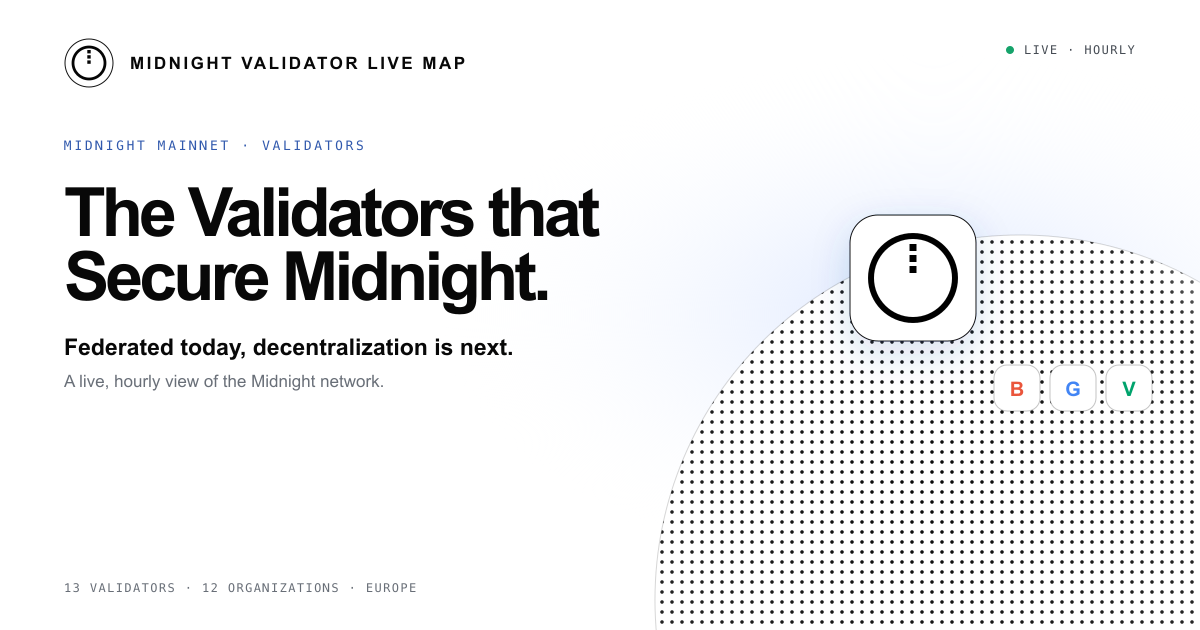
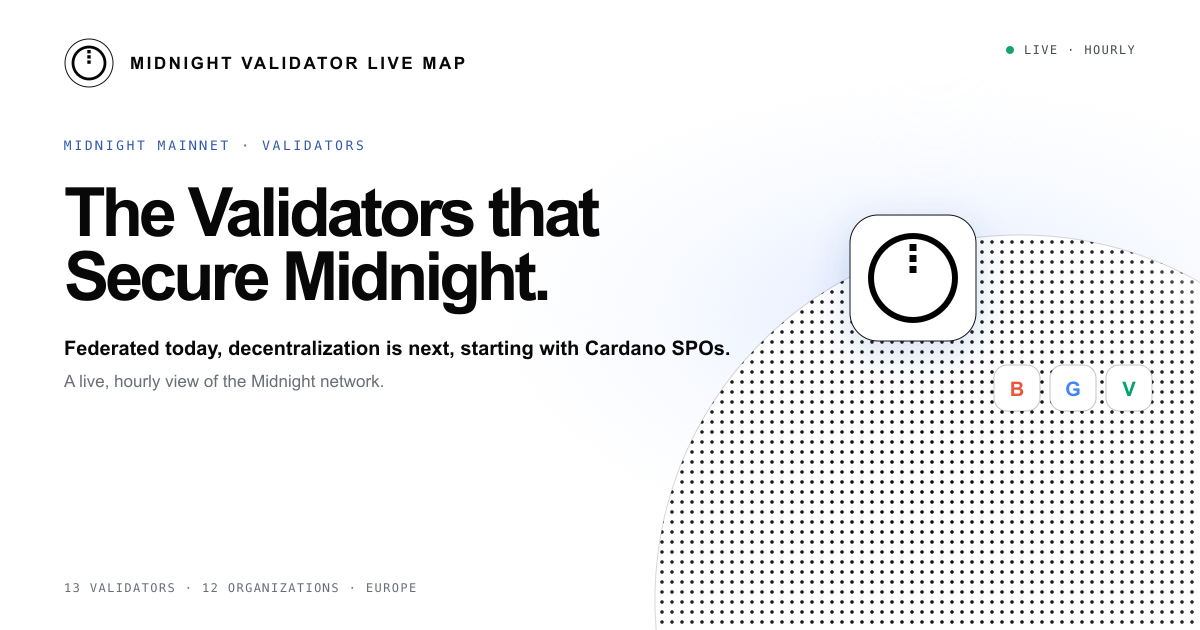
Clarify validator locations and map connections

Changed region(s): [[0.0617, 0.5429, 0.6167, 0.573]]

diff --git a/src/app.js b/src/app.js
@@ -15,7 +15,8 @@ const state = {
   dragStartY: 0,
   dragStartPhi: 0,
   dragStartTheta: 0,
-  pinchDistance: null
+  pinchDistance: null,
+  autoRotate: true
 };
 
 document.querySelector("#app").innerHTML = `
@@ -32,7 +33,7 @@ document.querySelector("#app").innerHTML = `
       <section class="hero">
         <div class="eyebrow">MIDNIGHT MAINNET · LIVE VALIDATORS</div>
         <h1>The Validators that<br><em>Secure Midnight.</em></h1>
-        <p class="hero-subheadline">Federated today, decentralization is next.</p>
+        <p class="hero-subheadline">Federated today, decentralization is next, starting with Cardano SPOs.</p>
         <p class="hero-copy">A live, hourly view of the Midnight network.</p>
       </section>
 
@@ -42,6 +43,7 @@ document.querySelector("#app").innerHTML = `
           <div class="globe-halo"></div>
           <div class="globe-grid" aria-hidden="true"></div>
           <canvas id="globe" aria-label="Interactive globe centered on European validators"></canvas>
+          <svg class="globe-connectors" id="globe-connectors" aria-hidden="true"></svg>
           <div class="globe-labels" id="globe-labels"></div>
           <div class="globe-controls" aria-label="Globe controls">
             <button type="button" data-zoom="in" aria-label="Zoom in">+</button>
@@ -73,6 +75,7 @@ document.querySelector("#app").innerHTML = `
 
 const canvas = document.querySelector("#globe");
 const globeLabels = document.querySelector("#globe-labels");
+const globeConnectors = document.querySelector("#globe-connectors");
 const railLeft = document.querySelector("#rail-left");
 const railRight = document.querySelector("#rail-right");
 const detailsCard = document.querySelector("#details-card");
@@ -80,6 +83,22 @@ const detailsHeading = document.querySelector("#details-heading");
 
 let globe;
 let logoElements = [];
+let connectorElements = [];
+const legendOrder = [
+  "mnf-validator-1",
+  "sfi-validator-google",
+  "bkd-validator-mnf",
+  "twn-validator-etoro",
+  "sfi-validator-moneygram",
+  "sfi-validator-worldpay",
+  "sfi-validator-vodafone",
+  "aton-validator",
+  "bgo-validator",
+  "bkd-validator-bullish",
+  "stl-validator-labrador-monarch",
+  "stl-validator-whippet-humpback",
+  "ktg-validator"
+];
 
 loadSnapshot();
 
@@ -99,9 +118,17 @@ async function loadSnapshot() {
 }
 
 function render() {
-  const validators = state.snapshot.validators;
+  const validators = [...state.snapshot.validators].sort(
+    (a, b) => legendOrder.indexOf(a.name) - legendOrder.indexOf(b.name)
+  );
   const split = Math.ceil(validators.length / 2);
   globeLabels.innerHTML = validators.map(mapLogoButton).join("");
+  globeConnectors.innerHTML = validators.map((node) => `
+    <g data-connector="${escapeHtml(node.name)}">
+      <line></line>
+      <circle r="5"></circle>
+    </g>
+  `).join("");
   railLeft.innerHTML = validators.slice(0, split).map(validatorButton).join("");
   railRight.innerHTML = validators.slice(split).map(validatorButton).join("");
 
@@ -142,8 +169,8 @@ function mapLogoButton(node, index, validators) {
       type="button"
       aria-label="View ${escapeHtml(node.organization)} in ${escapeHtml(node.city)}"
     >
-      <span class="map-logo-image"><img src="./assets/logos/${escapeHtml(node.logo)}" alt=""></span>
-      <span class="map-logo-label"><strong>${escapeHtml(node.organization)}</strong><small>${escapeHtml(node.secondary ?? node.city)}</small></span>
+      <span class="map-logo-image"><img src="./assets/logos/${escapeHtml(visualLogo(node))}" alt=""></span>
+      <span class="map-logo-label"><strong>${escapeHtml(node.organization)}</strong><small>${escapeHtml(locationLabel(node))}</small></span>
     </button>
   `;
 }
@@ -152,11 +179,12 @@ function validatorButton(node) {
   return `
     <button class="validator-card ${node.online ? "" : "offline"}" data-name="${escapeHtml(node.name)}" type="button">
       <span class="logo-wrap" style="--accent:${node.accent}">
-        <img src="./assets/logos/${escapeHtml(node.logo)}" alt="">
+        <img src="./assets/logos/${escapeHtml(visualLogo(node))}" alt="">
       </span>
       <span class="validator-copy">
         <strong>${escapeHtml(node.organization)}</strong>
-        <small>${escapeHtml(node.secondary ?? node.city)}</small>
+        <small>${escapeHtml(locationLabel(node))}</small>
+        <span class="validator-metric">${Number.isFinite(node.propagationMs) ? `${node.propagationMs}ms propagation` : "Propagation unavailable"}</span>
       </span>
       <span class="status-dot ${node.online ? "" : "offline"}"></span>
     </button>
@@ -179,6 +207,28 @@ function markerId(node) {
   return node.name.replaceAll(/[^a-zA-Z0-9_-]/g, "-");
 }
 
+function locationLabel(node) {
+  const countries = {
+    Amsterdam: "Netherlands",
+    Brussels: "Belgium",
+    "City of London": "United Kingdom",
+    Dublin: "Ireland",
+    "Frankfurt am Main": "Germany",
+    Gravelines: "France",
+    Groningen: "Netherlands",
+    Stockholm: "Sweden"
+  };
+  return `${node.city}, ${countries[node.city] ?? "Country unavailable"}`;
+}
+
+function identityLabel(node) {
+  return node.organization === "Shielded Technologies" ? locationLabel(node) : (node.secondary ?? node.name);
+}
+
+function visualLogo(node) {
+  return node.organization === "Shielded Technologies" ? "midnight-foundation.svg" : node.logo;
+}
+
 function bindValidatorButtons() {
   document.querySelectorAll("[data-name]").forEach((button) => {
     button.addEventListener("click", () => {
@@ -197,13 +247,13 @@ function renderDetails() {
   detailsCard.innerHTML = `
     <div class="detail-identity">
       <span class="logo-wrap large" style="--accent:${node.accent}">
-        <img src="./assets/logos/${escapeHtml(node.logo)}" alt="">
+        <img src="./assets/logos/${escapeHtml(visualLogo(node))}" alt="">
       </span>
-      <div><strong>${escapeHtml(node.organization)}</strong><span>${escapeHtml(node.secondary ?? node.name)}</span></div>
+      <div><strong>${escapeHtml(node.organization)}</strong><span>${escapeHtml(identityLabel(node))}</span></div>
       <span class="status-pill ${node.online ? "" : "offline"}">${node.online ? "Online" : "Offline"}</span>
     </div>
     <dl>
-      ${detail("Location", node.city)}
+      ${detail("Location", locationLabel(node))}
       ${detail("Node", node.name)}
       ${detail("Propagation", Number.isFinite(node.propagationMs) ? `${node.propagationMs}ms` : "—")}
       ${detail("Peers", node.peers ?? "—")}
@@ -220,14 +270,6 @@ function detail(label, value) {
 }
 
 function initGlobe() {
-  const markers = state.snapshot.validators
-    .filter((node) => node.online && Number.isFinite(node.lat) && Number.isFinite(node.lon))
-    .map((node) => ({
-      location: [node.lat, node.lon],
-      size: 0.052,
-      id: markerId(node),
-      color: hexToRgb(node.accent)
-    }));
   const arcs = state.snapshot.validators
     .filter((node) => node.online && Number.isFinite(node.lat) && Number.isFinite(node.lon))
     .slice(1)
@@ -260,7 +302,7 @@ function initGlobe() {
     baseColor: [1, 1, 1],
     markerColor: [0.2, 0.55, 1],
     glowColor: [0.82, 0.86, 0.94],
-    markers,
+    markers: [],
     arcs,
     arcColor: [0.18, 0.4, 0.95],
     arcWidth: 0.45,
@@ -272,9 +314,14 @@ function initGlobe() {
     element,
     node: state.snapshot.validators.find((node) => node.name === element.dataset.name)
   }));
+  connectorElements = [...globeConnectors.querySelectorAll("[data-connector]")].map((element) => ({
+    element,
+    node: state.snapshot.validators.find((node) => node.name === element.dataset.connector)
+  }));
   requestAnimationFrame(renderGlobeFrame);
 
   canvas.addEventListener("pointerdown", (event) => {
+    state.autoRotate = false;
     state.dragging = true;
     state.dragStartX = event.clientX;
     state.dragStartY = event.clientY;
@@ -296,6 +343,7 @@ function initGlobe() {
   canvas.addEventListener("pointerup", stopDragging);
   canvas.addEventListener("pointercancel", stopDragging);
   canvas.addEventListener("wheel", (event) => {
+    state.autoRotate = false;
     event.preventDefault();
     setZoom(state.targetScale - event.deltaY * 0.0012);
   }, { passive: false });
@@ -319,6 +367,9 @@ function initGlobe() {
 
 function renderGlobeFrame() {
   if (!state.dragging) {
+    if (state.autoRotate) {
+      state.targetPhi += 0.00045;
+    }
     state.phi += (state.targetPhi - state.phi) * 0.035;
     state.theta += (state.targetTheta - state.theta) * 0.035;
     state.scale += (state.targetScale - state.scale) * 0.08;
@@ -361,6 +412,7 @@ function updateLogoPositions() {
   const width = canvas.clientWidth;
   const height = canvas.clientHeight;
   if (!width || !height) return;
+  globeConnectors.setAttribute("viewBox", `0 0 ${width} ${height}`);
   for (const { element, node } of logoElements) {
     if (!Number.isFinite(node.lat) || !Number.isFinite(node.lon)) {
       element.style.opacity = "0";
@@ -370,6 +422,21 @@ function updateLogoPositions() {
     element.style.left = `${point.x}px`;
     element.style.top = `${point.y}px`;
     element.style.setProperty("--visible", point.visible ? "1" : "0");
+  }
+  for (const { element, node } of connectorElements) {
+    const point = projectLocation(node.lat, node.lon, width, height);
+    const logo = logoElements.find((item) => item.node.name === node.name)?.element;
+    const offsetX = Number.parseFloat(getComputedStyle(logo).getPropertyValue("--pin-x")) || 0;
+    const offsetY = Number.parseFloat(getComputedStyle(logo).getPropertyValue("--pin-y")) || 0;
+    const line = element.querySelector("line");
+    const anchor = element.querySelector("circle");
+    line.setAttribute("x1", point.x);
+    line.setAttribute("y1", point.y);
+    line.setAttribute("x2", point.x + offsetX);
+    line.setAttribute("y2", point.y + offsetY);
+    anchor.setAttribute("cx", point.x);
+    anchor.setAttribute("cy", point.y);
+    element.style.opacity = point.visible ? "1" : "0";
   }
 }
 

diff --git a/src/styles.css b/src/styles.css
@@ -57,6 +57,10 @@ h1 em { font-style: normal; color: #555b65; }
   opacity: .48; mix-blend-mode: multiply; animation: grid-breathe 4s ease-in-out infinite;
 }
 .globe-labels { position: absolute; inset: 0; z-index: 4; pointer-events: none; }
+.globe-connectors { position: absolute; inset: 0; z-index: 3; width: 100%; height: 100%; pointer-events: none; overflow: visible; }
+.globe-connectors line { stroke: #111; stroke-width: 1.25; stroke-opacity: .7; }
+.globe-connectors circle { fill: #fff; stroke: #111; stroke-width: 2; }
+.globe-connectors g { transition: opacity .2s; }
 .map-logo {
   position: absolute; left: 50%; top: 50%;
   transform: translate(calc(-50% + var(--pin-x)), calc(-50% + var(--pin-y))) scale(calc(.72 + var(--visible) * .28));
@@ -90,7 +94,7 @@ h1 em { font-style: normal; color: #555b65; }
 .validator-rail { display: flex; flex-direction: column; gap: 10px; position: relative; z-index: 7; }
 .rail-left .validator-card { margin-left: auto; text-align: right; flex-direction: row-reverse; }
 .validator-card {
-  width: min(100%, 245px); min-height: 57px; border: 1px solid #00000018;
+  width: min(100%, 245px); min-height: 68px; border: 1px solid #00000018;
   background: linear-gradient(135deg, #ffffffed, #f5f6f8ed); border-radius: 13px;
   display: flex; align-items: center; gap: 10px; padding: 8px 10px; cursor: pointer;
   transition: border-color .2s, transform .2s, background .2s, box-shadow .2s; text-align: left;
@@ -103,6 +107,7 @@ h1 em { font-style: normal; color: #555b65; }
 .validator-copy strong, .validator-copy small { display: block; white-space: nowrap; overflow: hidden; text-overflow: ellipsis; }
 .validator-copy strong { font-size: 11px; font-weight: 600; }
 .validator-copy small { margin-top: 4px; color: #69707a; font: 8px "Space Mono"; text-transform: uppercase; }
+.validator-metric { display: block; margin-top: 4px; color: #3159ad; font: 7px "Space Mono"; text-transform: uppercase; }
 .status-dot { flex: 0 0 auto; width: 5px; height: 5px; background: #0a9b61; border-radius: 50%; box-shadow: 0 0 7px #25c98688; }
 .status-dot.offline { background: #777; box-shadow: none; }
 .logo-wrap {
@@ -154,8 +159,8 @@ footer a { color: #404650; text-decoration: none; }
   .hero { padding-top: 45px; }
   .map-section { display: flex; flex-direction: column; min-height: auto; padding: 0 14px 40px; }
   .globe-stage { width: 125vw; order: 0; }
-  .validator-rail { order: 1; width: 100%; grid-template-columns: repeat(2, 1fr); }
-  .validator-card { min-height: 52px; }
+  .validator-rail { order: 1; width: 100%; grid-template-columns: 1fr; }
+  .validator-card { min-height: 68px; }
   .validator-card .logo-wrap { width: 32px; height: 32px; }
   .map-logo-image { width: 35px; height: 35px; border-radius: 10px; }
   .map-logo.selected .map-logo-label { display: none; }

diff --git a/index.html b/index.html
@@ -4,17 +4,17 @@
     <meta charset="UTF-8">
     <meta name="viewport" content="width=device-width, initial-scale=1.0">
     <meta name="theme-color" content="#ffffff">
-    <meta name="description" content="Federated today, decentralization is next. A live, hourly view of the Midnight network.">
+    <meta name="description" content="Federated today, decentralization is next, starting with Cardano SPOs. A live, hourly view of the Midnight network.">
     <meta property="og:type" content="website">
     <meta property="og:title" content="The Validators that Secure Midnight">
-    <meta property="og:description" content="Federated today, decentralization is next. A live, hourly view of the Midnight network.">
+    <meta property="og:description" content="Federated today, decentralization is next, starting with Cardano SPOs. A live, hourly view of the Midnight network.">
     <meta property="og:image" content="https://pricepulsepp.github.io/midnight-validator-live-map/social-preview.png">
     <meta property="og:image:width" content="1200">
     <meta property="og:image:height" content="630">
     <meta property="og:image:alt" content="Midnight Validator Live Map showing the organizations securing Midnight">
     <meta name="twitter:card" content="summary_large_image">
     <meta name="twitter:title" content="The Validators that Secure Midnight">
-    <meta name="twitter:description" content="Federated today, decentralization is next. A live, hourly view of the Midnight network.">
+    <meta name="twitter:description" content="Federated today, decentralization is next, starting with Cardano SPOs. A live, hourly view of the Midnight network.">
     <meta name="twitter:image" content="https://pricepulsepp.github.io/midnight-validator-live-map/social-preview.png">
     <meta name="twitter:image:alt" content="Midnight Validator Live Map showing the organizations securing Midnight">
     <title>Midnight Validator Live Map</title>